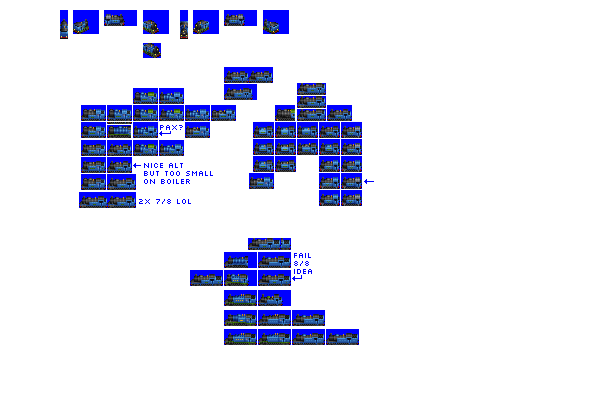
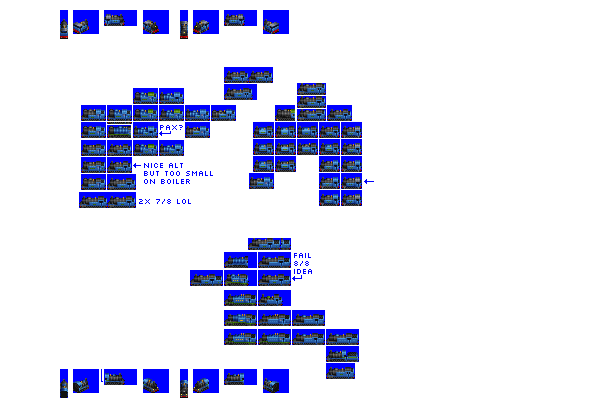
Change: sprites complete for Xerxes

diff --git a/src/vehicles/xerxes.py b/src/vehicles/xerxes.py
@@ -13,7 +13,7 @@ def main(roster_id):
         gen=1,
         intro_date_offset=20,  # introduce much later than gen epoch by design
         fixed_run_cost_points=140,  # minor run cost bonus as default algorithm makes run cost too high
-        sprites_complete=False,
+        sprites_complete=True,
     )
 
     consist.add_unit(
